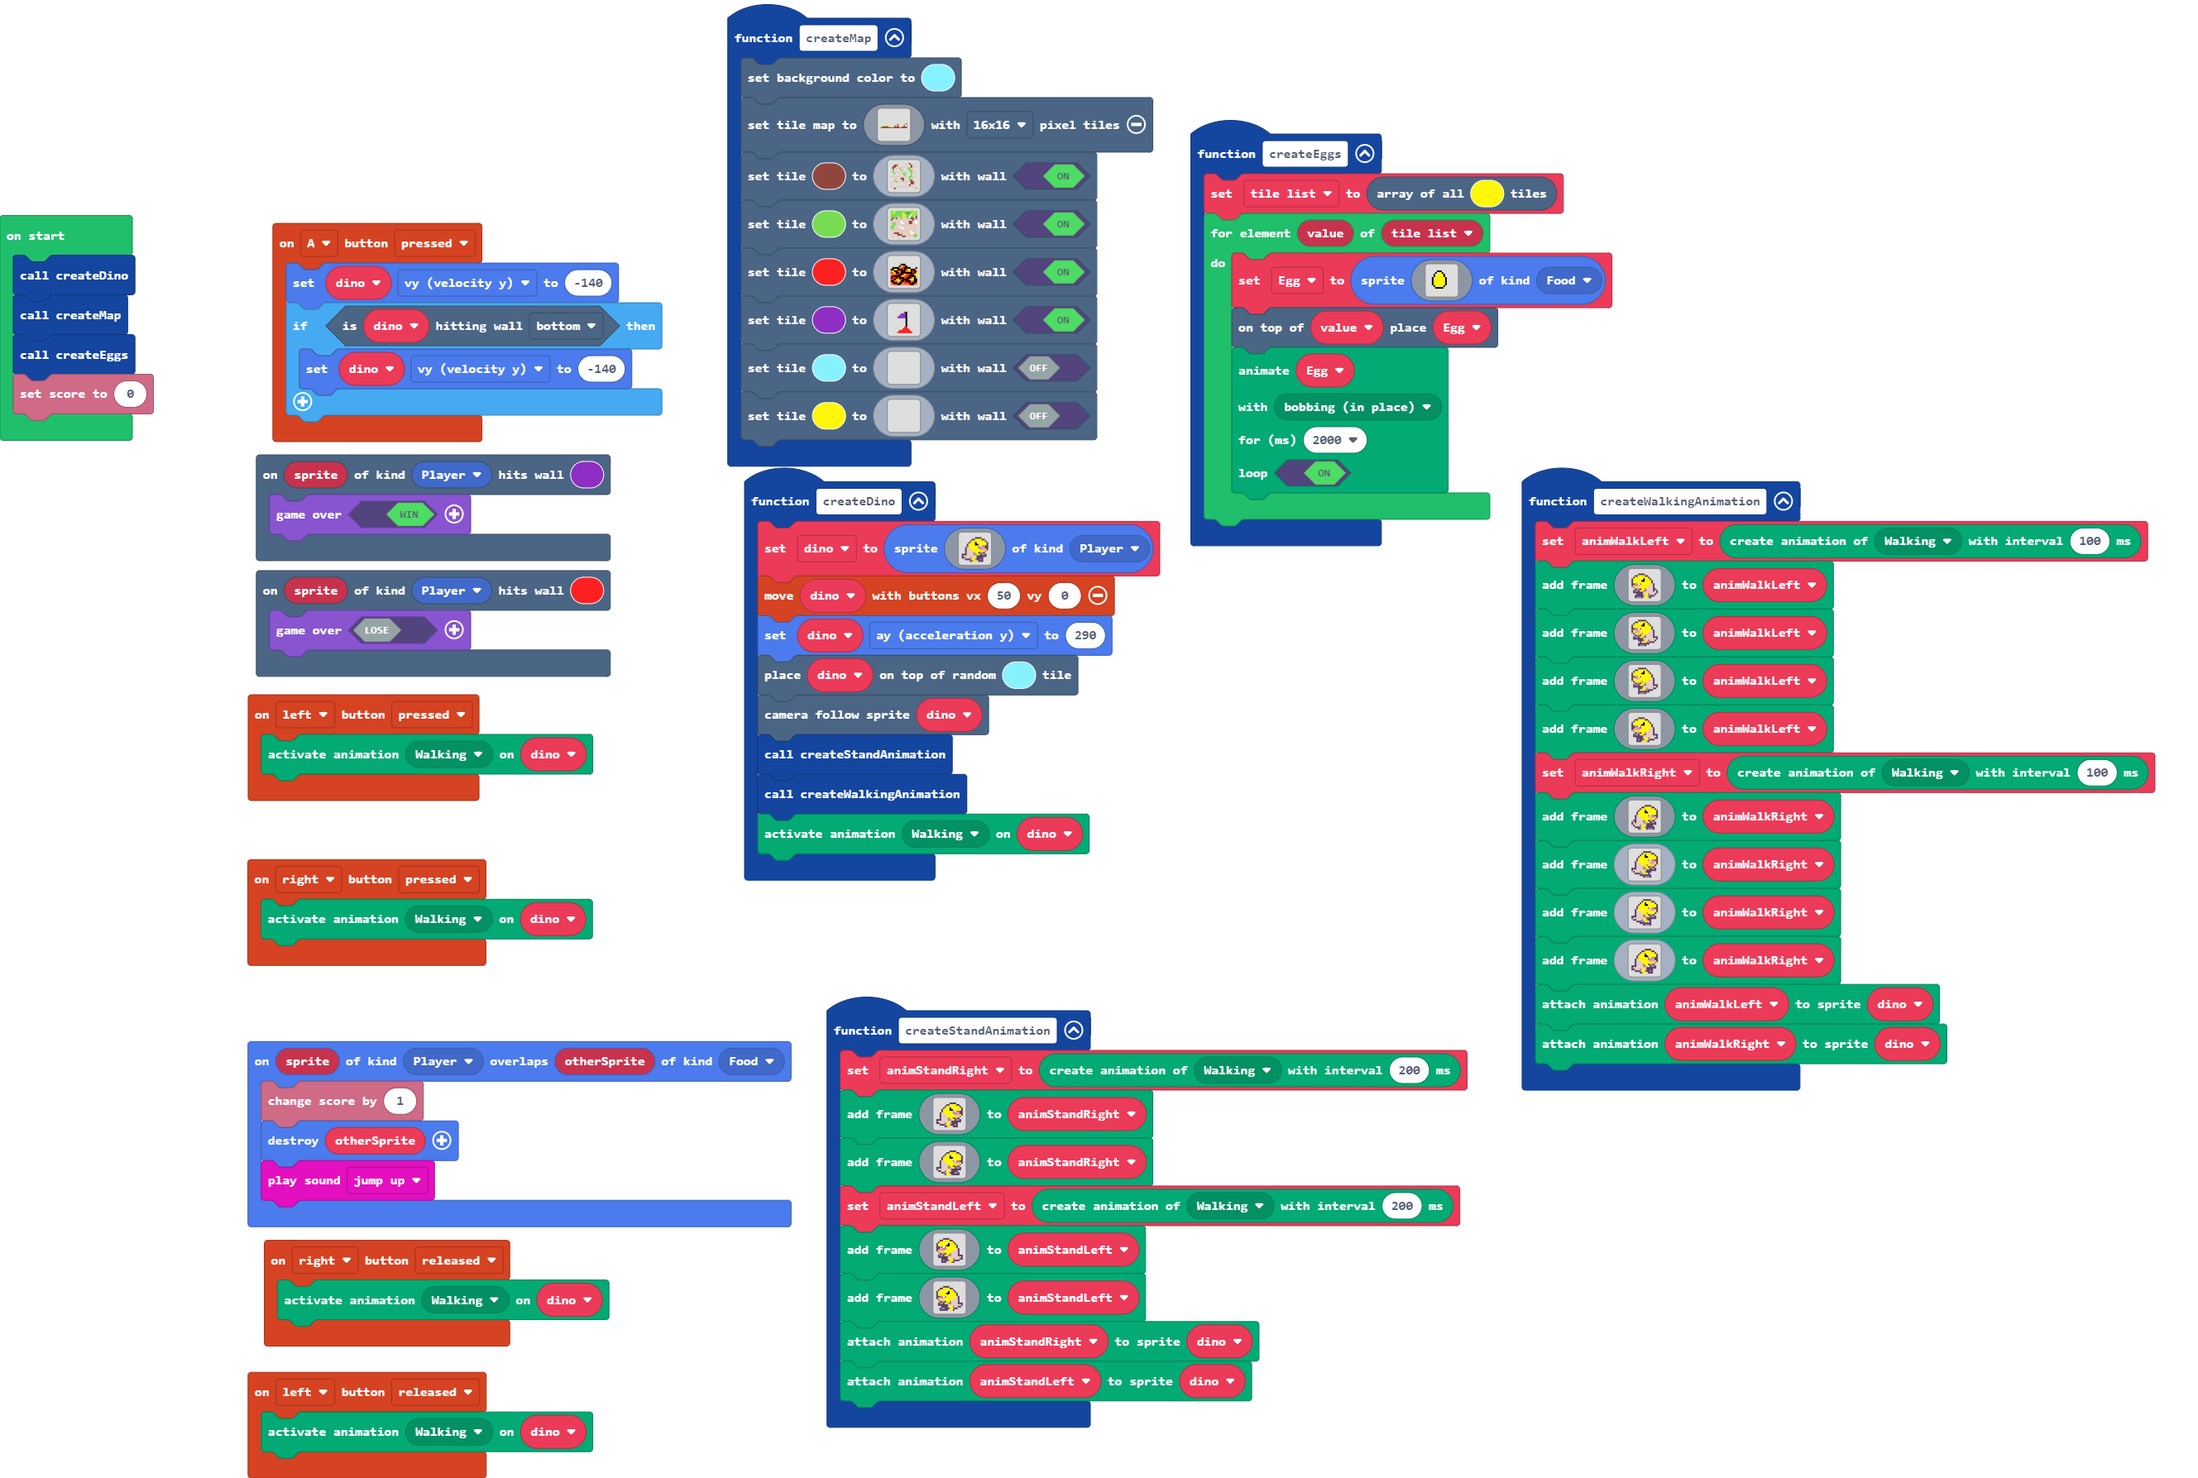
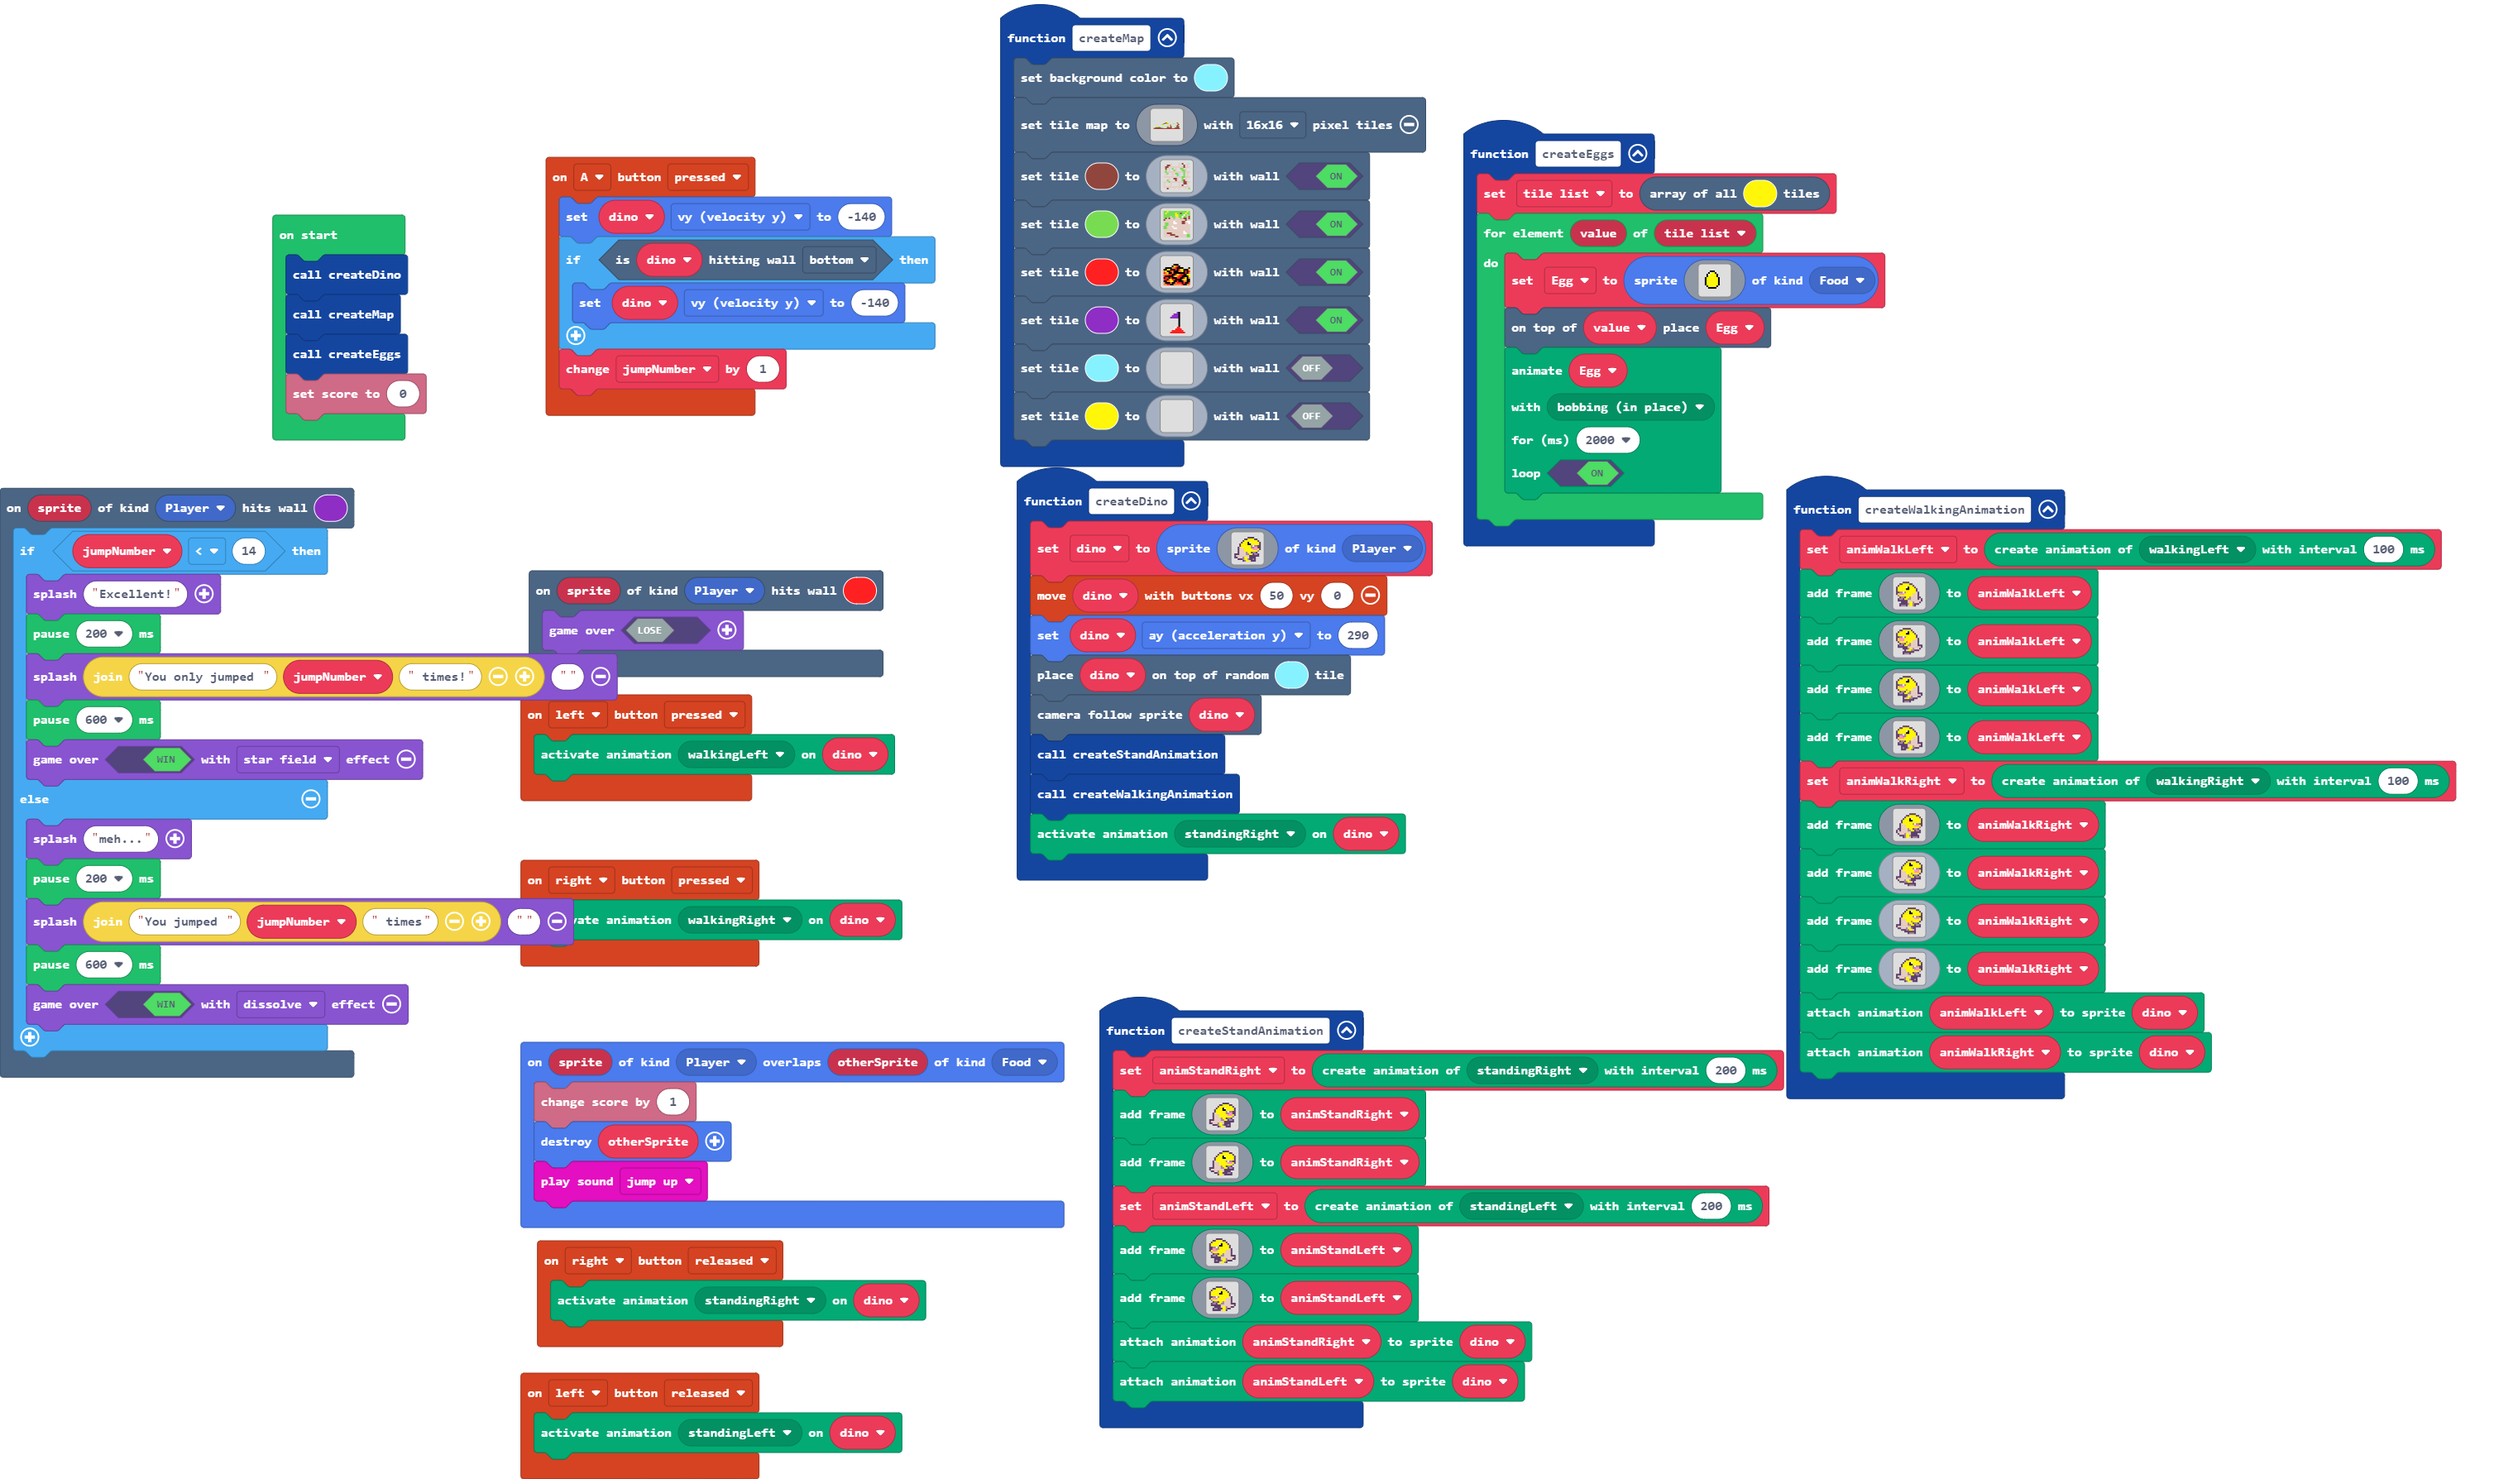
try not to jump too much

diff --git a/main.ts b/main.ts
@@ -8,7 +8,7 @@ enum ActionKind {
     walkingRight
 }
 function createStandAnimation () {
-    animStandRight = animation.createAnimation(ActionKind.Walking, 200)
+    animStandRight = animation.createAnimation(ActionKind.standingRight, 200)
     animStandRight.addAnimationFrame(img`
         . . . . . . . . . . . . . . . . 
         . . . . . . . . c c c c . . . . 
@@ -45,7 +45,7 @@ function createStandAnimation () {
         . . . c c b 5 5 c c c b b c . . 
         . . . . . c 5 5 d c c c c c . . 
         `)
-    animStandLeft = animation.createAnimation(ActionKind.Walking, 200)
+    animStandLeft = animation.createAnimation(ActionKind.standingLeft, 200)
     animStandLeft.addAnimationFrame(img`
         . . . . . . . . . . . . . . . . 
         . . . . c c c c . . . . . . . . 
@@ -88,14 +88,16 @@ function createStandAnimation () {
 function createMap () {
     scene.setBackgroundColor(9)
     scene.setTileMap(img`
-        9 9 . . . . . . . . . . . . . . . . . . . . . . . . . . . . . . 
-        . . . . . . . . . . . . . . . . . . . . . . . . . . . . . . . 5 
-        . . . . 5 . . . . . . . . . . . . . 5 . 7 . . . . . . . . . e 7 
-        . . 5 . . . . . . . 5 5 . . . . . . . . e . . . 5 . . . 7 . . e 
-        . . . . . . . . . . . . . . . . . 7 . . e 7 . . . . . . e . . . 
-        . . . 7 . 7 7 7 . . . . . 5 . . 7 e . . e e . . . . . 7 e . . . 
-        7 7 2 e 2 e e e 2 7 7 7 . . . . e e 2 2 e e . . . 7 e e e 2 e a 
-        e e e e e e e e e e e e 2 2 e e e e e e e e 2 2 2 e e e e e e e 
+        99..............................
+        ................55...........5..
+        ..............2255..........e7..
+        ............ee7777......7....e..
+        ....5.....77......5.7........ee.
+        ..5.......55........e...5...2a..
+        .................7..e7.....7ee7.
+        ...7.777.....5..7e..ee.....7eee.
+        772e2eee2777....ee22ee...7eeeee.
+        eeeeeeeeeeee22eeeeeeee222eeeeee2
         `, TileScale.Sixteen)
     scene.setTile(14, img`
         . . . . d . . . . d . e . . d 9 
@@ -211,21 +213,34 @@ controller.A.onEvent(ControllerButtonEvent.Pressed, function () {
     if (dino.isHittingTile(CollisionDirection.Bottom)) {
         dino.vy = -140
     }
+    jumpNumber += 1
 })
 controller.left.onEvent(ControllerButtonEvent.Pressed, function () {
-    animation.setAction(dino, ActionKind.Walking)
+    animation.setAction(dino, ActionKind.walkingLeft)
 })
 scene.onHitTile(SpriteKind.Player, 10, function (sprite) {
-    game.over(true)
+    if (jumpNumber < 14) {
+        game.splash("Excellent!")
+        pause(200)
+        game.splash("You only jumped " + jumpNumber + " times!", "")
+        pause(600)
+        game.over(true, effects.starField)
+    } else {
+        game.splash("meh...")
+        pause(200)
+        game.splash("You jumped " + jumpNumber + " times", "")
+        pause(600)
+        game.over(true, effects.dissolve)
+    }
 })
 controller.right.onEvent(ControllerButtonEvent.Released, function () {
-    animation.setAction(dino, ActionKind.Walking)
+    animation.setAction(dino, ActionKind.standingRight)
 })
 controller.left.onEvent(ControllerButtonEvent.Released, function () {
-    animation.setAction(dino, ActionKind.Walking)
+    animation.setAction(dino, ActionKind.standingLeft)
 })
 function createWalkingAnimation () {
-    animWalkLeft = animation.createAnimation(ActionKind.Walking, 100)
+    animWalkLeft = animation.createAnimation(ActionKind.walkingLeft, 100)
     animWalkLeft.addAnimationFrame(img`
         . . . . . . . . . . . . . . . . 
         . . . . c c c c . . . . . . . . 
@@ -298,7 +313,7 @@ function createWalkingAnimation () {
         . . . c b c c b 5 5 b c c c . . 
         . . . c c c d 5 5 b c . . . . . 
         `)
-    animWalkRight = animation.createAnimation(ActionKind.Walking, 100)
+    animWalkRight = animation.createAnimation(ActionKind.walkingRight, 100)
     animWalkRight.addAnimationFrame(img`
         . . . . . . . . . . . . . . . . 
         . . . . . . . . c c c c . . . . 
@@ -405,7 +420,7 @@ function createEggs () {
     }
 }
 controller.right.onEvent(ControllerButtonEvent.Pressed, function () {
-    animation.setAction(dino, ActionKind.Walking)
+    animation.setAction(dino, ActionKind.walkingRight)
 })
 sprites.onOverlap(SpriteKind.Player, SpriteKind.Food, function (sprite, otherSprite) {
     info.changeScoreBy(1)
@@ -437,7 +452,7 @@ function createDino () {
     scene.cameraFollowSprite(dino)
     createStandAnimation()
     createWalkingAnimation()
-    animation.setAction(dino, ActionKind.Walking)
+    animation.setAction(dino, ActionKind.standingRight)
 }
 scene.onHitTile(SpriteKind.Player, 2, function (sprite) {
     game.over(false)
@@ -446,6 +461,7 @@ let Egg: Sprite = null
 let tile_list: tiles.Tile[] = []
 let animWalkRight: animation.Animation = null
 let animWalkLeft: animation.Animation = null
+let jumpNumber = 0
 let dino: Sprite = null
 let animStandLeft: animation.Animation = null
 let animStandRight: animation.Animation = null
